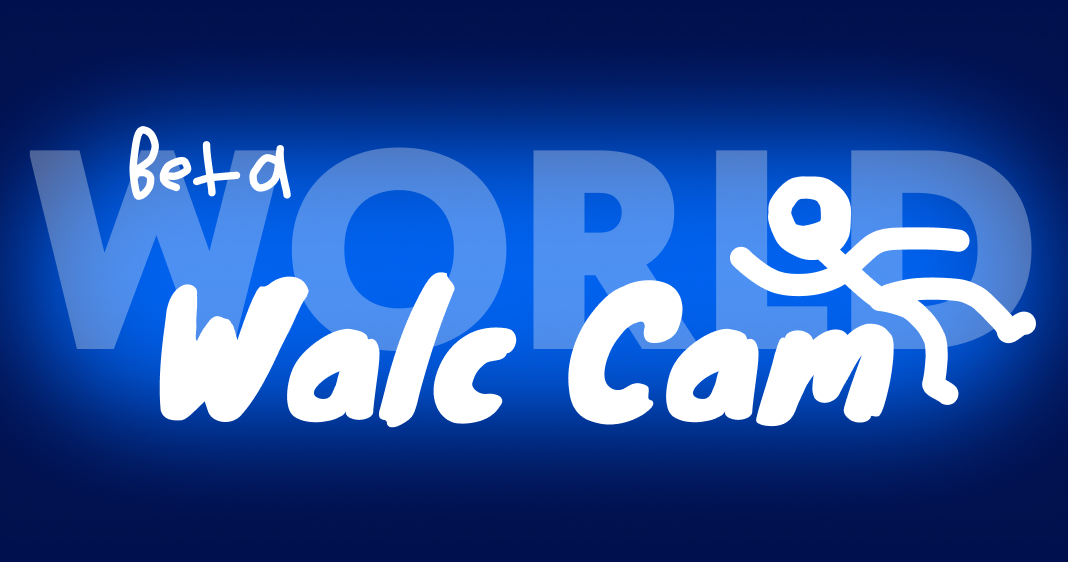
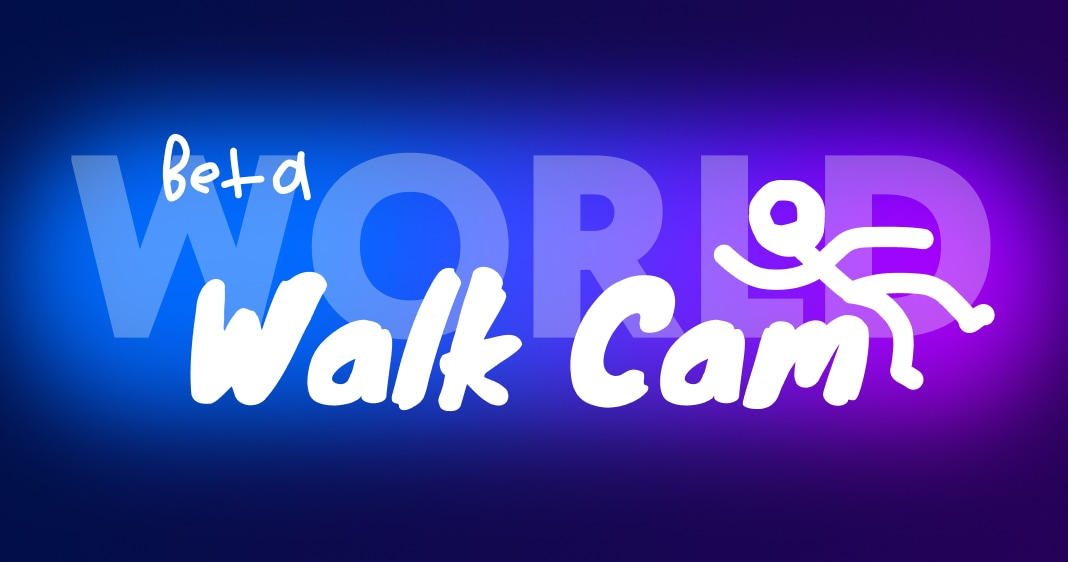
WWK beta 2

diff --git a/geowalk/index.html b/geowalk/index.html
@@ -126,8 +126,10 @@
         <label>Скорость ходьбы <input id="walk" type="number" min="0" step="0.5" /></label>
         <label>Ускорение (Shift) <input id="run" type="number" min="1" step="1" /></label>
         <label>Взлёт / спуск <input id="fly" type="number" min="0" step="0.5" /></label>
+        <label>Дальность прорисовки (0–1) <input id="draw" type="number" min="0" max="1" step="0.05" /></label>
         <div class="sep"></div>
         <label>3D рельеф (×, 0=выкл) <input id="relief" type="number" min="0" step="0.5" /></label>
+        <label>Игнорировать рельеф камерой <input id="noterrcol" type="checkbox" /></label>
         <label>Тени зданий <input id="shadows" type="checkbox" /></label>
         <div class="sep"></div>
         <div>Город:</div>
@@ -176,8 +178,13 @@
         start: { lng: 44.80148, lat: 41.69354 }, // Тбилиси (проспект Руставели)
         startBearing: 35,
         eyeHeight: 2.3,       // высота глаз, м (рост повыше)
+        startHeightMultiplier: 10, // при старте поднимаемся в N раз выше роста
         groundAlt: 0,         // уровень земли, м
         fov: 90,              // вертикальный угол обзора
+        // Ближняя плоскость отсечения: MapLibre по умолчанию height/50, из-за чего
+        // у плоской камеры близкие объекты сильно обрезаются. Больше делитель —
+        // ближе плоскость — меньше обрезаются объекты у камеры (ценой точности глубины).
+        nearClipDivisor: 4000,
         walkSpeed: 20,        // м/с
         runMultiplier: 50,    // ускорение по Shift (×50)
         flySpeed: 20,         // м/с — подъём (Space) / спуск (X)
@@ -199,6 +206,9 @@
         styleUrl: "https://tiles.openfreemap.org/styles/liberty",
         // 3D рельеф (DEM от AWS, terrarium). 0 = выключен.
         terrainExaggeration: 1,
+        // Игнорировать рельеф камерой: камера держит постоянную высоту,
+        // не повторяя неровности рельефа (centerClampedToGround=false + фикс. база).
+        ignoreTerrainCollision: true,
         demUrl: "https://s3.amazonaws.com/elevation-tiles-prod/terrarium/{z}/{x}/{y}.png",
         demEncoding: "terrarium",
         // Тени зданий в реальном времени (CustomLayer, проекция следа + AO).
@@ -253,11 +263,15 @@
         lat: CONFIG.start.lat,
         yaw: CONFIG.startBearing,    // курс, град
         pitch: CONFIG.pitchStart,    // наклон камеры, град (0=вниз,90=горизонт)
-        altOffset: 0,                // подъём над землёй (полёт), м
+        altOffset: CONFIG.eyeHeight * (CONFIG.startHeightMultiplier - 1), // старт выше в N раз
         speed: 0,
         eye: CONFIG.eyeHeight,
         collision: true
     };
+
+    // фиксированная высота рельефа-базы (м над уровнем моря) при включённом
+    // «игнорировать рельеф»: камера держит постоянную абсолютную высоту = база + рост.
+    let fixedElevation = null;
 
     const keys = Object.create(null);
     let locked = false;
@@ -291,9 +305,7 @@
     document.addEventListener("mousemove", (e) => {
         if (!locked) return;
         player.yaw = ((player.yaw + e.movementX * CONFIG.mouseYaw) % 360 + 360) % 360;
-        // мышь вверх (movementY<0) → смотрим выше → pitch к горизонту (больше)
-        player.pitch -= e.movementY * CONFIG.mousePitch;
-        player.pitch = Math.max(CONFIG.pitchMin, Math.min(CONFIG.pitchMax, player.pitch));
+        // вертикальный обзор отключён — наклон камеры фиксирован (CONFIG.pitchStart)
     });
 
     function isTyping(e) {
@@ -318,6 +330,7 @@
     const elWalk = document.getElementById("walk");
     const elRun = document.getElementById("run");
     const elFly = document.getElementById("fly");
+    const elDraw = document.getElementById("draw");
     const elCity = document.getElementById("city");
     const elCityGo = document.getElementById("city-go");
     const elCityStatus = document.getElementById("city-status");
@@ -325,6 +338,7 @@
     elWalk.value = CONFIG.walkSpeed;
     elRun.value = CONFIG.runMultiplier;
     elFly.value = CONFIG.flySpeed;
+    elDraw.value = CONFIG.fogGroundBlend;
 
     function bindNumber(el, apply) {
         el.addEventListener("input", () => {
@@ -335,18 +349,43 @@
     bindNumber(elWalk, v => CONFIG.walkSpeed = v);
     bindNumber(elRun, v => CONFIG.runMultiplier = v);
     bindNumber(elFly, v => CONFIG.flySpeed = v);
+    bindNumber(elDraw, v => { CONFIG.fogGroundBlend = Math.max(0, Math.min(1, v)); applySky(); });
 
     // 3D рельеф + тени
     const elRelief = document.getElementById("relief");
+    const elNoTerrCol = document.getElementById("noterrcol");
     const elShadows = document.getElementById("shadows");
     elRelief.value = CONFIG.terrainExaggeration;
+    elNoTerrCol.checked = CONFIG.ignoreTerrainCollision;
     elShadows.checked = CONFIG.shadows;
+
+    function applySky() {
+        // Дальность прорисовки задаётся туманом: больше fog-ground-blend → дальше видно.
+        try {
+            map.setSky({
+                "sky-color": CONFIG.skyColor,
+                "sky-horizon-blend": CONFIG.skyHorizonBlend,
+                "horizon-color": CONFIG.horizonColor,
+                "horizon-fog-blend": 0.5,
+                "fog-color": CONFIG.fogColor,
+                "fog-ground-blend": CONFIG.fogGroundBlend
+            });
+        } catch (err) { console.warn("Sky:", err); }
+    }
 
     function applyTerrain(ex) {
         try {
             if (ex && ex > 0) map.setTerrain({ source: "terrain-dem", exaggeration: ex });
             else map.setTerrain(null);
         } catch (e) { console.warn("terrain:", e); }
+    }
+
+    function applyTerrainCollision(ignore) {
+        // ignore=true → постоянная высота камеры (база захватывается в applyCamera);
+        // ignore=false → камера повторяет рельеф (центр привязан к земле).
+        CONFIG.ignoreTerrainCollision = ignore;
+        fixedElevation = null; // пересчитать базу на текущем месте
+        if (!ignore) { try { map.setCenterClampedToGround(true); } catch (e) {} }
     }
 
     let ShadowClass = null;
@@ -376,6 +415,10 @@
         const v = parseFloat(elRelief.value);
         if (!isNaN(v)) { CONFIG.terrainExaggeration = v; applyTerrain(v); }
     });
+    elNoTerrCol.addEventListener("change", () => {
+        CONFIG.ignoreTerrainCollision = elNoTerrCol.checked;
+        applyTerrainCollision(CONFIG.ignoreTerrainCollision);
+    });
     elShadows.addEventListener("change", () => {
         if (elShadows.checked) enableShadows(); else disableShadows();
     });
@@ -394,6 +437,7 @@
             player.lng = lng;
             player.lat = lat;
             player.altOffset = 0;
+            fixedElevation = null; // пересчитать базу высоты на новом месте
             const p = f.properties || {};
             elCityStatus.textContent = "→ " + (p.name || name) + (p.country ? ", " + p.country : "");
         } catch (err) {
@@ -460,16 +504,7 @@
     map.on("load", () => {
         try { map.setVerticalFieldOfView(CONFIG.fov); } catch (err) { console.warn("FOV:", err); }
         stripIconLayers();
-        try {
-            map.setSky({
-                "sky-color": CONFIG.skyColor,
-                "sky-horizon-blend": CONFIG.skyHorizonBlend,
-                "horizon-color": CONFIG.horizonColor,
-                "horizon-fog-blend": 0.5,
-                "fog-color": CONFIG.fogColor,
-                "fog-ground-blend": CONFIG.fogGroundBlend
-            });
-        } catch (err) { console.warn("Sky:", err); }
+        applySky();
 
         // 3D рельеф: источник высот (DEM)
         try {
@@ -483,6 +518,7 @@
                 });
             }
             applyTerrain(CONFIG.terrainExaggeration);
+            applyTerrainCollision(CONFIG.ignoreTerrainCollision);
         } catch (err) { console.warn("DEM:", err); }
 
         // Тени зданий
@@ -566,14 +602,55 @@
         const dLat = (Math.cos(b) * groundDist) / M_PER_DEG_LAT;
         const dLng = (Math.sin(b) * groundDist) / (M_PER_DEG_LAT * cosLat);
 
+        const opts = {
+            center: [player.lng + dLng, player.lat + dLat],
+            zoom,
+            bearing: player.yaw,
+            pitch: player.pitch
+        };
+
+        if (CONFIG.ignoreTerrainCollision) {
+            // постоянная высота: один раз фиксируем базу рельефа и держим её,
+            // тогда камера = база + рост, не повторяя неровности под ногами.
+            if (fixedElevation === null) {
+                if (!map.getTerrain()) {
+                    // рельеф выключен — база на уровне моря
+                    fixedElevation = 0;
+                } else if (map.isSourceLoaded("terrain-dem")) {
+                    // ждём реальные данные высот; ровный 0 до загрузки игнорируем,
+                    // чтобы не зафиксировать базу под землёй
+                    const te = map.queryTerrainElevation([player.lng, player.lat]);
+                    if (typeof te === "number" && isFinite(te) && te !== 0) fixedElevation = te;
+                }
+            }
+            if (fixedElevation !== null) {
+                if (map.getCenterClampedToGround()) map.setCenterClampedToGround(false);
+                opts.elevation = fixedElevation;
+            } else {
+                // база ещё не готова (DEM грузится) — временно идём по рельефу,
+                // чтобы не провалиться под землю
+                if (!map.getCenterClampedToGround()) map.setCenterClampedToGround(true);
+            }
+        } else if (!map.getCenterClampedToGround()) {
+            map.setCenterClampedToGround(true);
+        }
+
         try {
-            map.jumpTo({
-                center: [player.lng + dLng, player.lat + dLat],
-                zoom,
-                bearing: player.yaw,
-                pitch: player.pitch
-            });
+            map.jumpTo(opts);
         } catch (err) { /* пропускаем редкий сбой кадра */ }
+
+        // Приближаем ближнюю плоскость отсечения, чтобы близкие к камере объекты
+        // и края карты не обрезались. Дальнюю оставляем как авто-рассчитанную.
+        try {
+            const tr = map.transform;
+            if (typeof tr.overrideNearFarZ === "function") {
+                tr.clearNearFarZOverride();             // авто near/far под текущий кадр
+                const farZ = tr.farZ;
+                const h = tr.height || map.getCanvas().height || 800;
+                const nearZ = Math.max(0.02, h / CONFIG.nearClipDivisor);
+                if (isFinite(farZ) && farZ > nearZ) tr.overrideNearFarZ(nearZ, farZ);
+            }
+        } catch (err) { /* near/far override недоступен — пропускаем */ }
     }
 
     function updateHUD() {